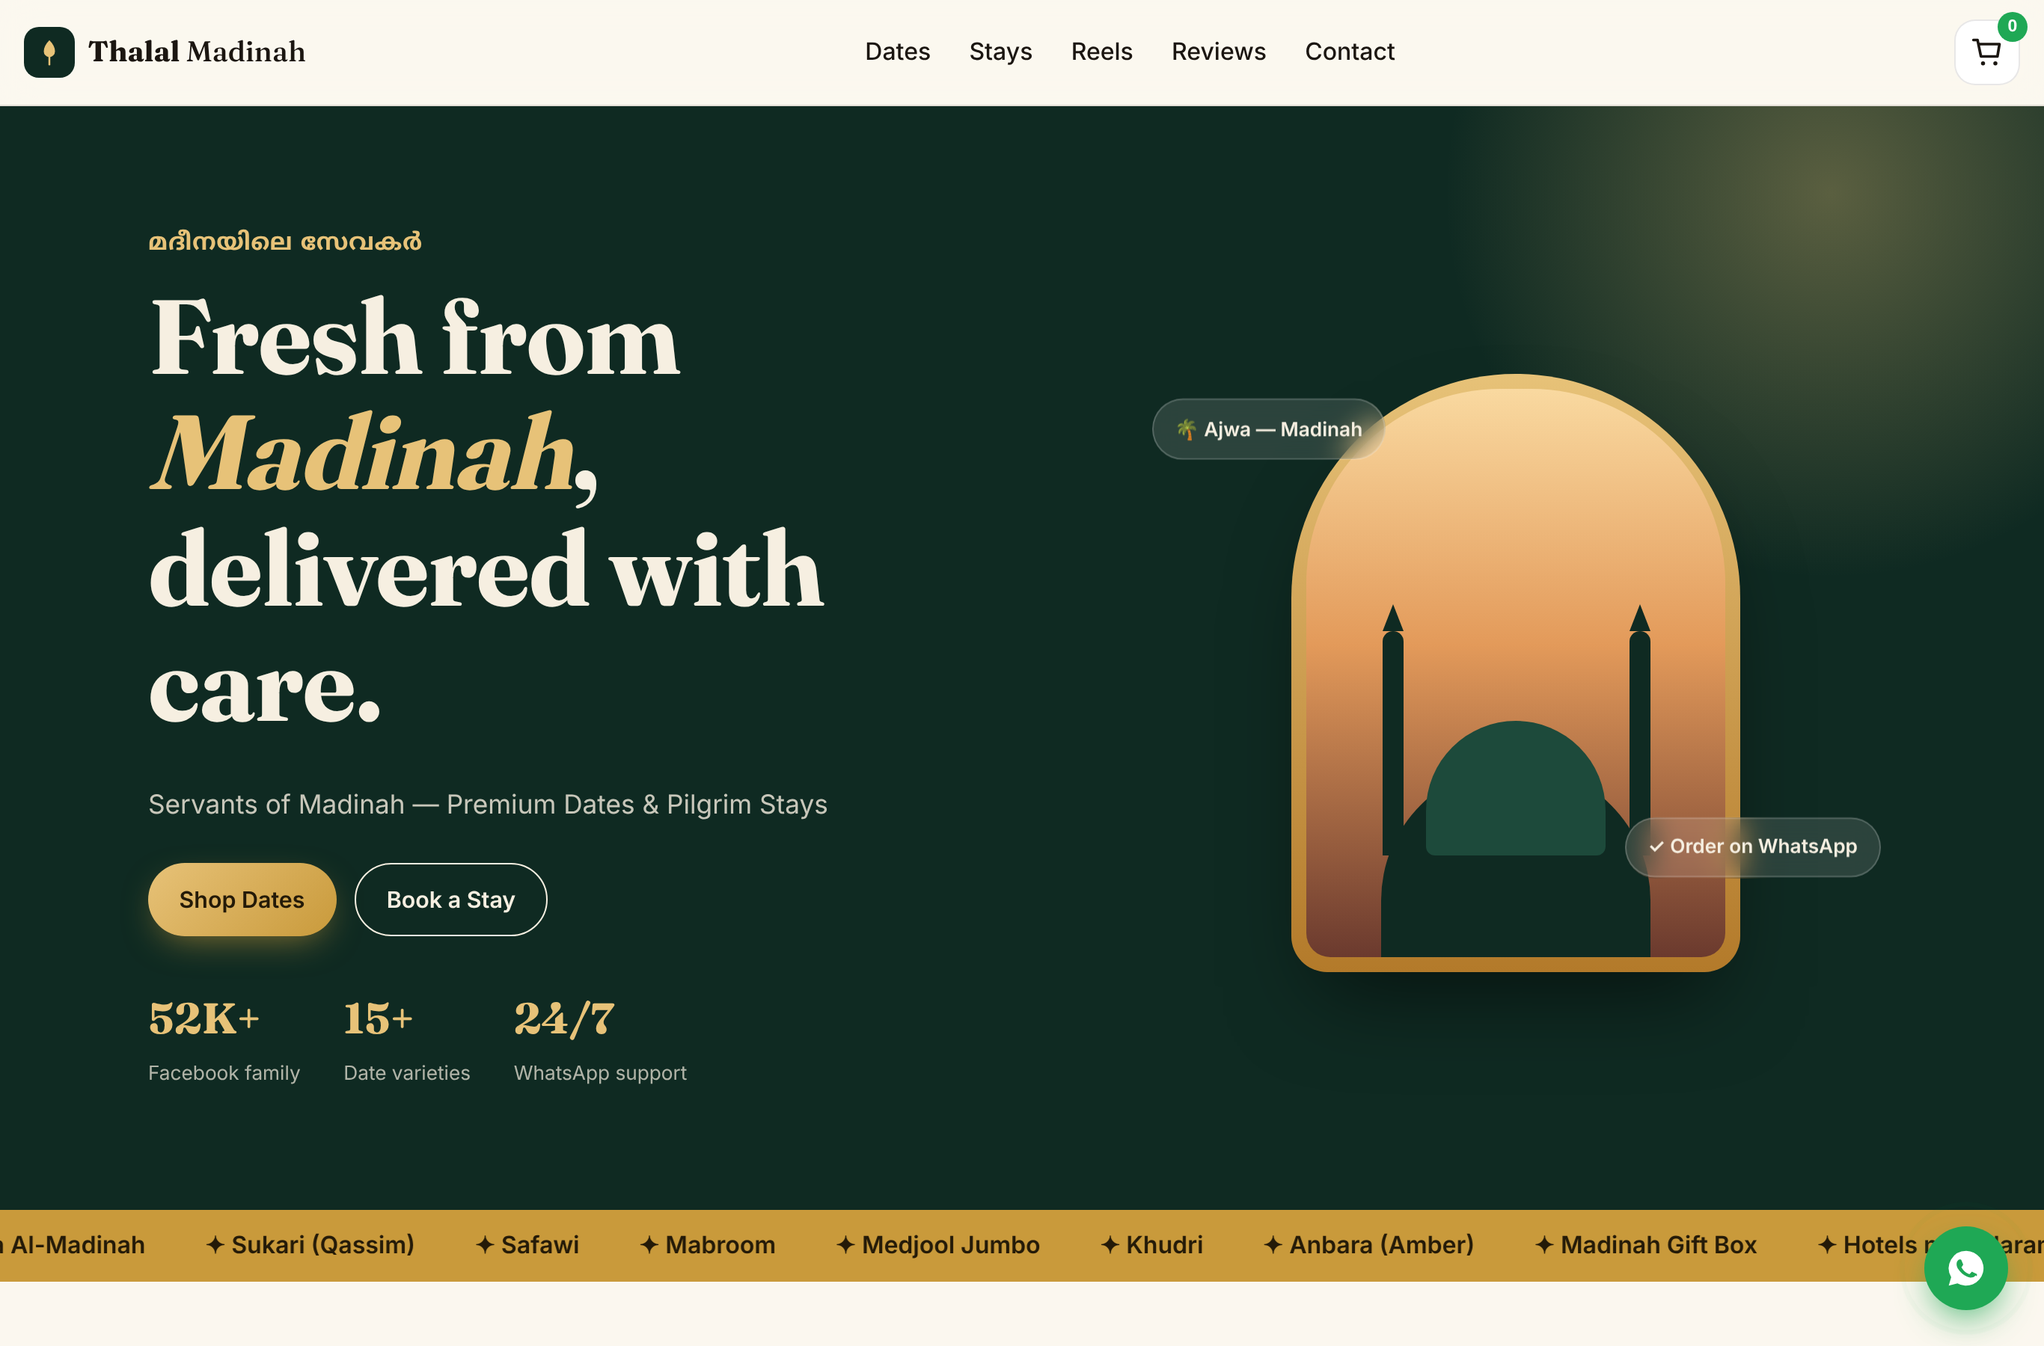
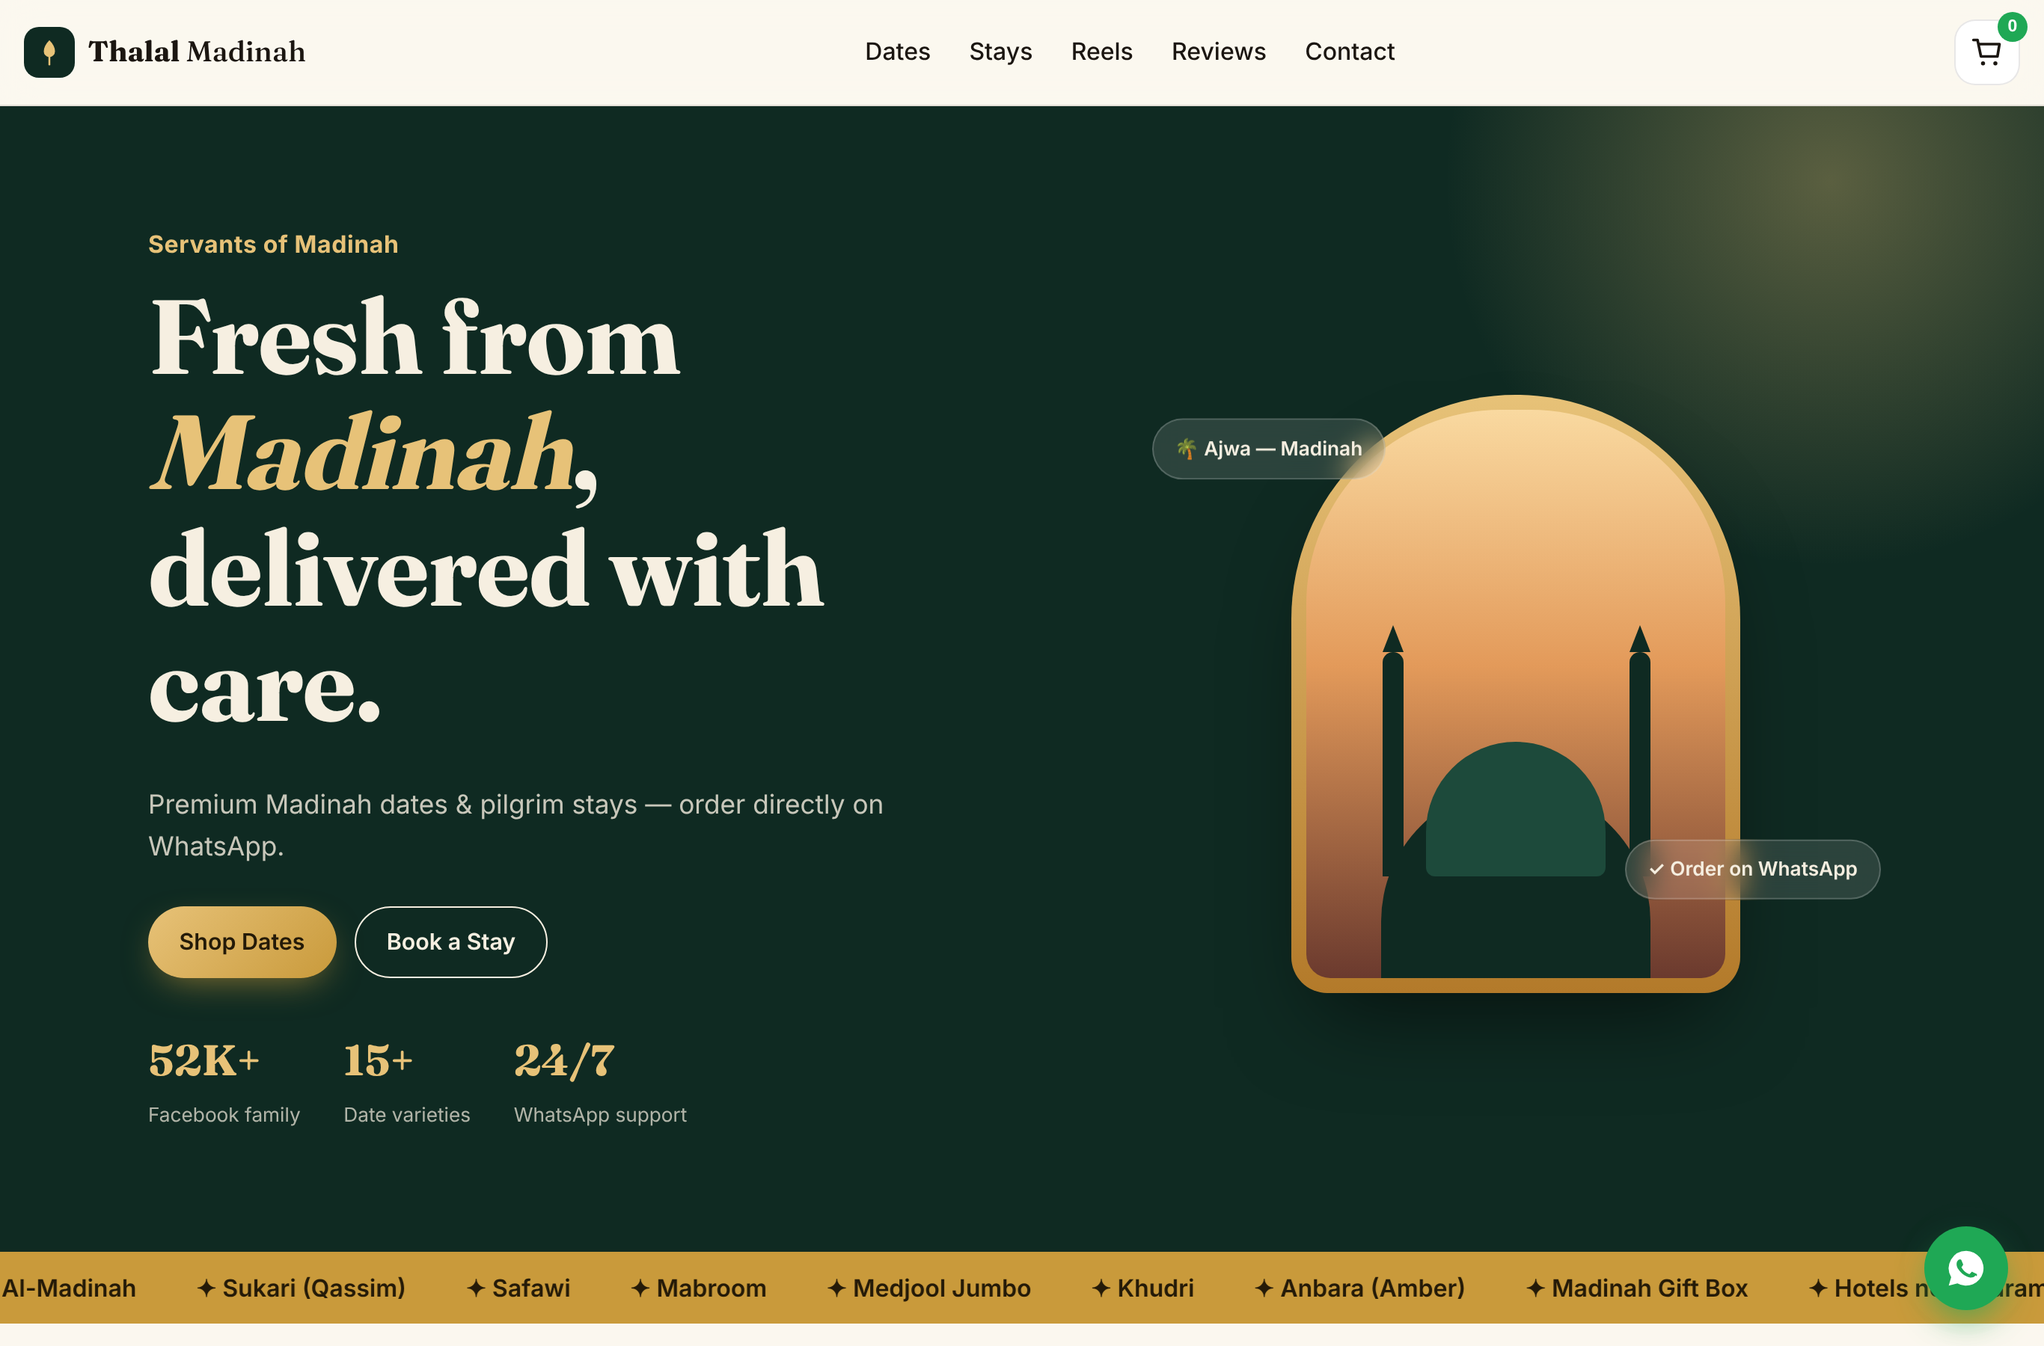
Thalal Madinah: switch prices to SAR and remove Malayalam text
- Currency is now Saudi Riyal (SAR) with sample SAR prices
- Removed Malayalam script, font and labels; English-only copy
- Testimonials marked as samples; keep SAR prices on one line on mobile

Claude-Session: https://claude.ai/code/session_01PcdrExsiwFA1W7qhDeTfWQ

diff --git a/data.js b/data.js
@@ -1,18 +1,18 @@
 /* ============================================================
    THALAL MADINAH — SITE SETTINGS (edit this file only)
-   ഈ ഫയൽ മാത്രം edit ചെയ്താൽ മതി: number, prices, videos, links.
+   Edit only this file: WhatsApp number, prices, videos, links.
    ============================================================ */
 
 window.SITE = {
   brand: "Thalal Madinah",
-  tagline: "മദീനയിലെ സേവകർ",
-  taglineEn: "Servants of Madinah — Premium Dates & Pilgrim Stays",
+  tagline: "Servants of Madinah",
+  taglineEn: "Premium Madinah dates & pilgrim stays — order directly on WhatsApp.",
 
   // ⚠ Replace with the real WhatsApp number: country code + number, no "+", spaces or dashes.
-  // Example (Saudi): 9665XXXXXXXX   Example (India): 91XXXXXXXXXX
+  // Example (Saudi): 9665XXXXXXXX
   whatsapp: "966500000000",
 
-  currency: "₹", // change to "SAR " or "AED " if needed
+  currency: "SAR ", // Saudi Riyal
 
   // Social media links. Leave "" to hide an icon.
   social: {
@@ -32,22 +32,22 @@ window.SITE = {
   /* ---------- DATES CATALOG ----------
      image: put photos in thalal-madinah/images/ (e.g. images/ajwa.jpg).
      If the image is missing, a styled placeholder is shown instead.
-     prices: SAMPLE values — update before going live. */
+     prices: SAMPLE values in SAR — update before going live. */
   products: [
-    { id: "ajwa",    name: "Ajwa Al-Madinah", ml: "അജ്വ",   tag: "Bestseller", desc: "The Prophet's ﷺ beloved date. Soft, dark and rich — from the farms of Madinah.", image: "images/ajwa.jpg",    hue: 18,  options: [{ w: "500g", p: 1200 }, { w: "1kg", p: 2200 }] },
-    { id: "sukari",  name: "Sukari (Qassim)", ml: "സുക്കരി", tag: "Sweetest",   desc: "Golden, caramel-like and melt-in-the-mouth. A family favourite.",              image: "images/sukari.jpg",  hue: 38,  options: [{ w: "500g", p: 550 },  { w: "1kg", p: 950 }] },
-    { id: "safawi",  name: "Safawi",          ml: "സഫാവി",   tag: "Daily",      desc: "Long, dark and chewy with a mild sweetness. Perfect for everyday iftar.",     image: "images/safawi.jpg",  hue: 12,  options: [{ w: "500g", p: 600 },  { w: "1kg", p: 1050 }] },
-    { id: "mabroom", name: "Mabroom",         ml: "മബ്റൂം",  tag: "Premium",    desc: "Slender, firm and less sweet — prized by date connoisseurs.",                image: "images/mabroom.jpg", hue: 24,  options: [{ w: "500g", p: 750 },  { w: "1kg", p: 1350 }] },
-    { id: "medjool", name: "Medjool Jumbo",   ml: "മെജ്ദൂൾ", tag: "Jumbo",      desc: "Large, juicy and luxurious. Ideal for gifting.",                              image: "images/medjool.jpg", hue: 30,  options: [{ w: "500g", p: 900 },  { w: "1kg", p: 1650 }] },
-    { id: "khudri",  name: "Khudri",          ml: "ഖുദ്രി", tag: "Value",      desc: "Soft brown dates with a light taste. Great value for bulk orders.",            image: "images/khudri.jpg",  hue: 28,  options: [{ w: "1kg", p: 650 },   { w: "3kg", p: 1800 }] },
-    { id: "anbara",  name: "Anbara (Amber)",  ml: "അംബർ",    tag: "Rare",       desc: "Big, soft and rare Madinah variety with a delicate flavour.",                 image: "images/anbara.jpg",  hue: 20,  options: [{ w: "500g", p: 1100 }, { w: "1kg", p: 2000 }] },
-    { id: "giftbox", name: "Madinah Gift Box", ml: "ഗിഫ്റ്റ് ബോക്സ്", tag: "Gift", desc: "Assorted Ajwa, Sukari & Safawi in a premium box. Perfect for Umrah gifts.", image: "images/giftbox.jpg", hue: 42,  options: [{ w: "Small", p: 1500 }, { w: "Large", p: 2800 }] }
+    { id: "ajwa",    name: "Ajwa Al-Madinah", tag: "Bestseller", desc: "The Prophet's ﷺ beloved date. Soft, dark and rich — from the farms of Madinah.", image: "images/ajwa.jpg",    hue: 18,  options: [{ w: "500g", p: 45 }, { w: "1kg", p: 85 }] },
+    { id: "sukari",  name: "Sukari (Qassim)", tag: "Sweetest",   desc: "Golden, caramel-like and melt-in-the-mouth. A family favourite.",              image: "images/sukari.jpg",  hue: 38,  options: [{ w: "500g", p: 20 }, { w: "1kg", p: 35 }] },
+    { id: "safawi",  name: "Safawi",          tag: "Daily",      desc: "Long, dark and chewy with a mild sweetness. Perfect for everyday iftar.",     image: "images/safawi.jpg",  hue: 12,  options: [{ w: "500g", p: 25 }, { w: "1kg", p: 45 }] },
+    { id: "mabroom", name: "Mabroom",         tag: "Premium",    desc: "Slender, firm and less sweet — prized by date connoisseurs.",                image: "images/mabroom.jpg", hue: 24,  options: [{ w: "500g", p: 30 }, { w: "1kg", p: 55 }] },
+    { id: "medjool", name: "Medjool Jumbo",   tag: "Jumbo",      desc: "Large, juicy and luxurious. Ideal for gifting.",                              image: "images/medjool.jpg", hue: 30,  options: [{ w: "500g", p: 35 }, { w: "1kg", p: 65 }] },
+    { id: "khudri",  name: "Khudri",          tag: "Value",      desc: "Soft brown dates with a light taste. Great value for bulk orders.",            image: "images/khudri.jpg",  hue: 28,  options: [{ w: "1kg", p: 20 }, { w: "3kg", p: 55 }] },
+    { id: "anbara",  name: "Anbara (Amber)",  tag: "Rare",       desc: "Big, soft and rare Madinah variety with a delicate flavour.",                 image: "images/anbara.jpg",  hue: 20,  options: [{ w: "500g", p: 45 }, { w: "1kg", p: 85 }] },
+    { id: "giftbox", name: "Madinah Gift Box", tag: "Gift", desc: "Assorted Ajwa, Sukari & Safawi in a premium box. Perfect for Umrah gifts.", image: "images/giftbox.jpg", hue: 42,  options: [{ w: "Small", p: 60 }, { w: "Large", p: 110 }] }
   ],
 
   /* ---------- ACCOMMODATION & SERVICES ---------- */
   services: [
     { id: "hotel",   icon: "hotel",   title: "Hotels near Masjid Nabawi", desc: "Walking-distance stays for families and groups. Budget to premium." },
-    { id: "umrah",   icon: "kaaba",   title: "Umrah pilgrim stays",       desc: "Comfortable rooms with Malayalam-speaking support throughout your stay." },
+    { id: "umrah",   icon: "kaaba",   title: "Umrah pilgrim stays",       desc: "Comfortable rooms with caring support throughout your stay." },
     { id: "airport", icon: "plane",   title: "Airport pickup & transport", desc: "Madinah airport pickup, Makkah–Madinah transfers, train-station drops." },
     { id: "ziyarat", icon: "map",     title: "Ziyarat tours",             desc: "Guided visits to Quba, Uhud, Qiblatain and historic sites of Madinah." }
   ],
@@ -66,9 +66,10 @@ window.SITE = {
     { type: "instagram", src: "",                          title: "Customer reviews" }
   ],
 
+  // SAMPLE reviews — replace with real customer reviews before going live.
   testimonials: [
-    { name: "Shameer, Malappuram", text: "Ajwa was super fresh and reached in 4 days. Ordering on WhatsApp was very easy." },
-    { name: "Fathima, Kozhikode",  text: "They arranged our hotel near Haram and airport pickup for our Umrah family. Very caring service." },
+    { name: "Ahmed, Riyadh", text: "Ajwa was super fresh and reached in 4 days. Ordering on WhatsApp was very easy." },
+    { name: "Fatima, Jeddah",  text: "They arranged our hotel near Haram and airport pickup for our Umrah family. Very caring service." },
     { name: "Rashid, Dubai",       text: "Bought gift boxes for the whole family. Premium packing, good price." }
   ]
 };

diff --git a/index.html b/index.html
@@ -4,16 +4,16 @@
   <meta charset="utf-8">
   <meta name="viewport" content="width=device-width, initial-scale=1, viewport-fit=cover">
   <title>Thalal Madinah — Premium Madinah Dates & Pilgrim Stays</title>
-  <meta name="description" content="Order fresh Ajwa, Sukari, Safawi and premium Madinah dates directly on WhatsApp. Hotels near Masjid Nabawi, Umrah stays, airport pickup and Ziyarat tours. മദീനയിലെ സേവകർ.">
+  <meta name="description" content="Order fresh Ajwa, Sukari, Safawi and premium Madinah dates directly on WhatsApp. Hotels near Masjid Nabawi, Umrah stays, airport pickup and Ziyarat tours.">
   <meta name="theme-color" content="#0f2a22">
-  <meta property="og:title" content="Thalal Madinah — മദീനയിലെ സേവകർ">
+  <meta property="og:title" content="Thalal Madinah — Servants of Madinah">
   <meta property="og:description" content="Premium Madinah dates & accommodation. Order directly on WhatsApp.">
   <meta property="og:type" content="website">
   <link rel="icon" href="favicon.svg" type="image/svg+xml">
   <link rel="manifest" href="manifest.webmanifest">
   <link rel="preconnect" href="https://fonts.googleapis.com">
   <link rel="preconnect" href="https://fonts.gstatic.com" crossorigin>
-  <link rel="stylesheet" href="https://fonts.googleapis.com/css2?family=Fraunces:opsz,wght@9..144,500;9..144,700&family=Inter:wght@400;500;600;700&family=Noto+Sans+Malayalam:wght@500;700&display=swap" media="print" onload="this.media='all'">
+  <link rel="stylesheet" href="https://fonts.googleapis.com/css2?family=Fraunces:opsz,wght@9..144,500;9..144,700&family=Inter:wght@400;500;600;700&display=swap" media="print" onload="this.media='all'">
   <link rel="stylesheet" href="styles.css">
   <script type="application/ld+json">
   {"@context":"https://schema.org","@type":"Store","name":"Thalal Madinah","alternateName":"Thalal Akbar Madinah Dates","description":"Premium Madinah dates and pilgrim accommodation services","address":{"@type":"PostalAddress","addressLocality":"Madinah","addressCountry":"SA"}}
@@ -42,7 +42,7 @@
     <section class="hero">
       <div class="hero-glow" aria-hidden="true"></div>
       <div class="hero-inner">
-        <p class="eyebrow ml" data-bind="tagline"></p>
+        <p class="eyebrow" data-bind="tagline"></p>
         <h1>Fresh from <em>Madinah</em>,<br>delivered with care.</h1>
         <p class="lead" data-bind="taglineEn"></p>
         <div class="hero-cta">
@@ -64,7 +64,7 @@
     <!-- Dates -->
     <section class="section" id="dates">
       <div class="section-head">
-        <p class="eyebrow">Our Dates · ഈത്തപ്പഴം</p>
+        <p class="eyebrow">Our Dates</p>
         <h2>Madinah's finest varieties</h2>
         <p class="muted">Pick a size, tap <b>Order on WhatsApp</b> — your order reaches us instantly.</p>
       </div>
@@ -77,7 +77,7 @@
       <div class="section-head">
         <p class="eyebrow">Accommodation & Services</p>
         <h2>Your home in Madinah</h2>
-        <p class="muted">Malayalam-speaking support for every pilgrim and family.</p>
+        <p class="muted">Caring support for every pilgrim and family.</p>
       </div>
       <div class="bento" id="services"></div>
 
@@ -133,7 +133,7 @@
 
   <footer class="footer">
     <div class="socials" id="socialsFooter"></div>
-    <p class="ml" data-bind="tagline"></p>
+    <p data-bind="tagline"></p>
     <p class="muted small">© <span id="year"></span> Thalal Madinah. Prices may vary with season & shipping.</p>
   </footer>
 
@@ -158,7 +158,7 @@
     <div class="drawer-body" id="cartItems"></div>
     <div class="drawer-foot">
       <label>Name<input id="custName" type="text" placeholder="Your name" autocomplete="name"></label>
-      <label>Delivery address / city<textarea id="custAddr" rows="2" placeholder="Address, city, pincode"></textarea></label>
+      <label>Delivery address / city<textarea id="custAddr" rows="2" placeholder="Address, city"></textarea></label>
       <div class="total"><span>Total</span><b id="cartTotal">0</b></div>
       <button class="btn btn-wa full" id="checkout"><span class="wa-ico"></span>Order via WhatsApp</button>
     </div>

diff --git a/styles.css b/styles.css
@@ -35,7 +35,6 @@ h1, h2, h3 { font-family: Fraunces, Georgia, serif; line-height: 1.1; margin: 0 
 h1 { font-size: clamp(2.3rem, 7vw, 4.4rem); }
 h2 { font-size: clamp(1.7rem, 4.5vw, 2.6rem); }
 h3 { font-size: 1.25rem; }
-.ml { font-family: "Noto Sans Malayalam", Inter, sans-serif; }
 .muted { color: var(--muted); }
 .small { font-size: .85rem; }
 .eyebrow { text-transform: uppercase; letter-spacing: .14em; font-size: .75rem; font-weight: 700; color: var(--gold); margin: 0 0 .6rem; }
@@ -128,13 +127,12 @@ h3 { font-size: 1.25rem; }
 .tag { position: absolute; top: 10px; left: 10px; z-index: 1; padding: .25rem .65rem; border-radius: 99px; font-size: .7rem; font-weight: 700; background: rgba(15,42,34,.85); color: var(--gold-2); backdrop-filter: blur(6px); }
 .card-body { padding: .9rem; display: flex; flex-direction: column; gap: .5rem; flex: 1; }
 .card-body h3 { font-size: 1.05rem; margin: 0; }
-.card-body .ml { font-size: .8rem; color: var(--gold); }
 .card-body p { margin: 0; font-size: .82rem; color: var(--muted); display: -webkit-box; -webkit-line-clamp: 2; -webkit-box-orient: vertical; overflow: hidden; }
 .sizes { display: flex; gap: .35rem; flex-wrap: wrap; }
 .size { padding: .3rem .6rem; border-radius: 10px; border: 1px solid var(--line); background: transparent; color: var(--ink); font: 600 .75rem Inter, sans-serif; cursor: pointer; }
 .size[aria-pressed="true"] { border-color: var(--gold); background: color-mix(in srgb, var(--gold) 15%, transparent); }
-.row { display: flex; align-items: center; justify-content: space-between; gap: .5rem; }
-.price { font-family: Fraunces, serif; font-size: 1.2rem; font-weight: 700; }
+.row { display: flex; flex-wrap: wrap; align-items: center; justify-content: space-between; gap: .5rem; }
+.price { font-family: Fraunces, serif; font-size: 1.2rem; font-weight: 700; white-space: nowrap; }
 .qty { display: inline-flex; align-items: center; border: 1px solid var(--line); border-radius: 99px; }
 .qty button { width: 30px; height: 30px; border: 0; background: none; color: var(--ink); font-size: 1rem; cursor: pointer; }
 .qty span { min-width: 18px; text-align: center; font-weight: 600; font-size: .85rem; }

diff --git a/app.js b/app.js
@@ -2,7 +2,7 @@
   "use strict";
   var S = window.SITE;
   var $ = function (sel) { return document.querySelector(sel); };
-  var money = function (n) { return S.currency + Number(n).toLocaleString("en-IN"); };
+  var money = function (n) { return S.currency.trim() + "\u00a0" + Number(n).toLocaleString("en-US"); };
   var esc = function (s) {
     return String(s).replace(/[&<>"']/g, function (c) {
       return { "&": "&amp;", "<": "&lt;", ">": "&gt;", '"': "&quot;", "'": "&#39;" }[c];
@@ -126,7 +126,7 @@
       return '<article class="card reveal" data-id="' + p.id + '">' +
         '<div class="card-media" style="--h:' + p.hue + '"><span class="tag">' + esc(p.tag) + '</span><div class="ph">' + DATE_SVG + "</div>" +
         '<img src="' + esc(p.image) + '" alt="' + esc(p.name) + ' dates" loading="lazy" onerror="this.remove()"></div>' +
-        '<div class="card-body"><span class="ml">' + esc(p.ml) + "</span><h3>" + esc(p.name) + "</h3><p>" + esc(p.desc) + "</p>" +
+        '<div class="card-body"><h3>' + esc(p.name) + "</h3><p>" + esc(p.desc) + "</p>" +
         '<div class="sizes">' + p.options.map(function (o, i) {
           return '<button class="size" data-act="size" data-i="' + i + '" aria-pressed="' + (i === st.o) + '">' + esc(o.w) + "</button>";
         }).join("") + "</div>" +

diff --git a/README.md b/README.md
@@ -1,4 +1,4 @@
-# Thalal Madinah — Website (മദീനയിലെ സേവകർ)
+# Thalal Madinah — Website
 
 A fast, mobile-first website for **Thalal Akbar Madinah Dates**: a dates catalog, accommodation services and reels. Every order and enquiry goes **straight to WhatsApp** as a pre-filled message.
 
@@ -10,15 +10,15 @@ It's a plain static site (HTML, CSS and JS), with no server, database or monthly
 - **Accommodation & services**: hotels near Masjid Nabawi, Umrah stays, airport pickup, Ziyarat, plus a stay-enquiry form that also goes to WhatsApp
 - **Reels / videos**: a swipeable vertical reel strip for Facebook reels, YouTube Shorts, Instagram reels and your own MP4s. Players load only when tapped, so the page stays fast on mobile data
 - **Social links**: Facebook, Instagram, YouTube, TikTok and WhatsApp Channel
-- 2026-style design: glass effects, bento layout, mobile bottom nav, floating WhatsApp button, dark mode, Malayalam + English
+- 2026-style design: glass effects, bento layout, mobile bottom nav, floating WhatsApp button, dark mode
 
-## ✏ Edit `data.js` only (ഈ ഒരു ഫയൽ മാത്രം മാറ്റിയാൽ മതി)
+## ✏ Edit `data.js` only
 | What | Where in `data.js` |
 |---|---|
 | WhatsApp number | `whatsapp: "9665XXXXXXXX"`: country code + number, no `+` or spaces |
-| Currency | `currency: "₹"` (or `"SAR "`) |
+| Currency | `currency: "SAR "` (Saudi Riyal) |
 | Facebook / Instagram links | `social: { ... }` |
-| Products, prices, sizes | `products: [ ... ]`. **The prices are samples. Update them before going live** |
+| Products, prices, sizes | `products: [ ... ]`. **The SAR prices are samples. Update them before going live** |
 | Hotel / services | `services: [ ... ]` |
 | Videos / reels | `videos: [ ... ]`: put the newest at the top |
 | Reviews | `testimonials: [ ... ]` |
@@ -26,7 +26,7 @@ It's a plain static site (HTML, CSS and JS), with no server, database or monthly
 ### Product photos
 Save the photos as `images/ajwa.jpg`, `images/sukari.jpg`, and so on (square, about 800×800, under 150 KB). Until a photo is added, the card shows a styled placeholder.
 
-### Adding a new video (വീഡിയോ ചേർക്കാൻ)
+### Adding a new video
 1. Post the reel on Facebook, YouTube or Instagram as usual.
 2. Copy the link and add it at the top of `videos` in `data.js`:
    ```js
